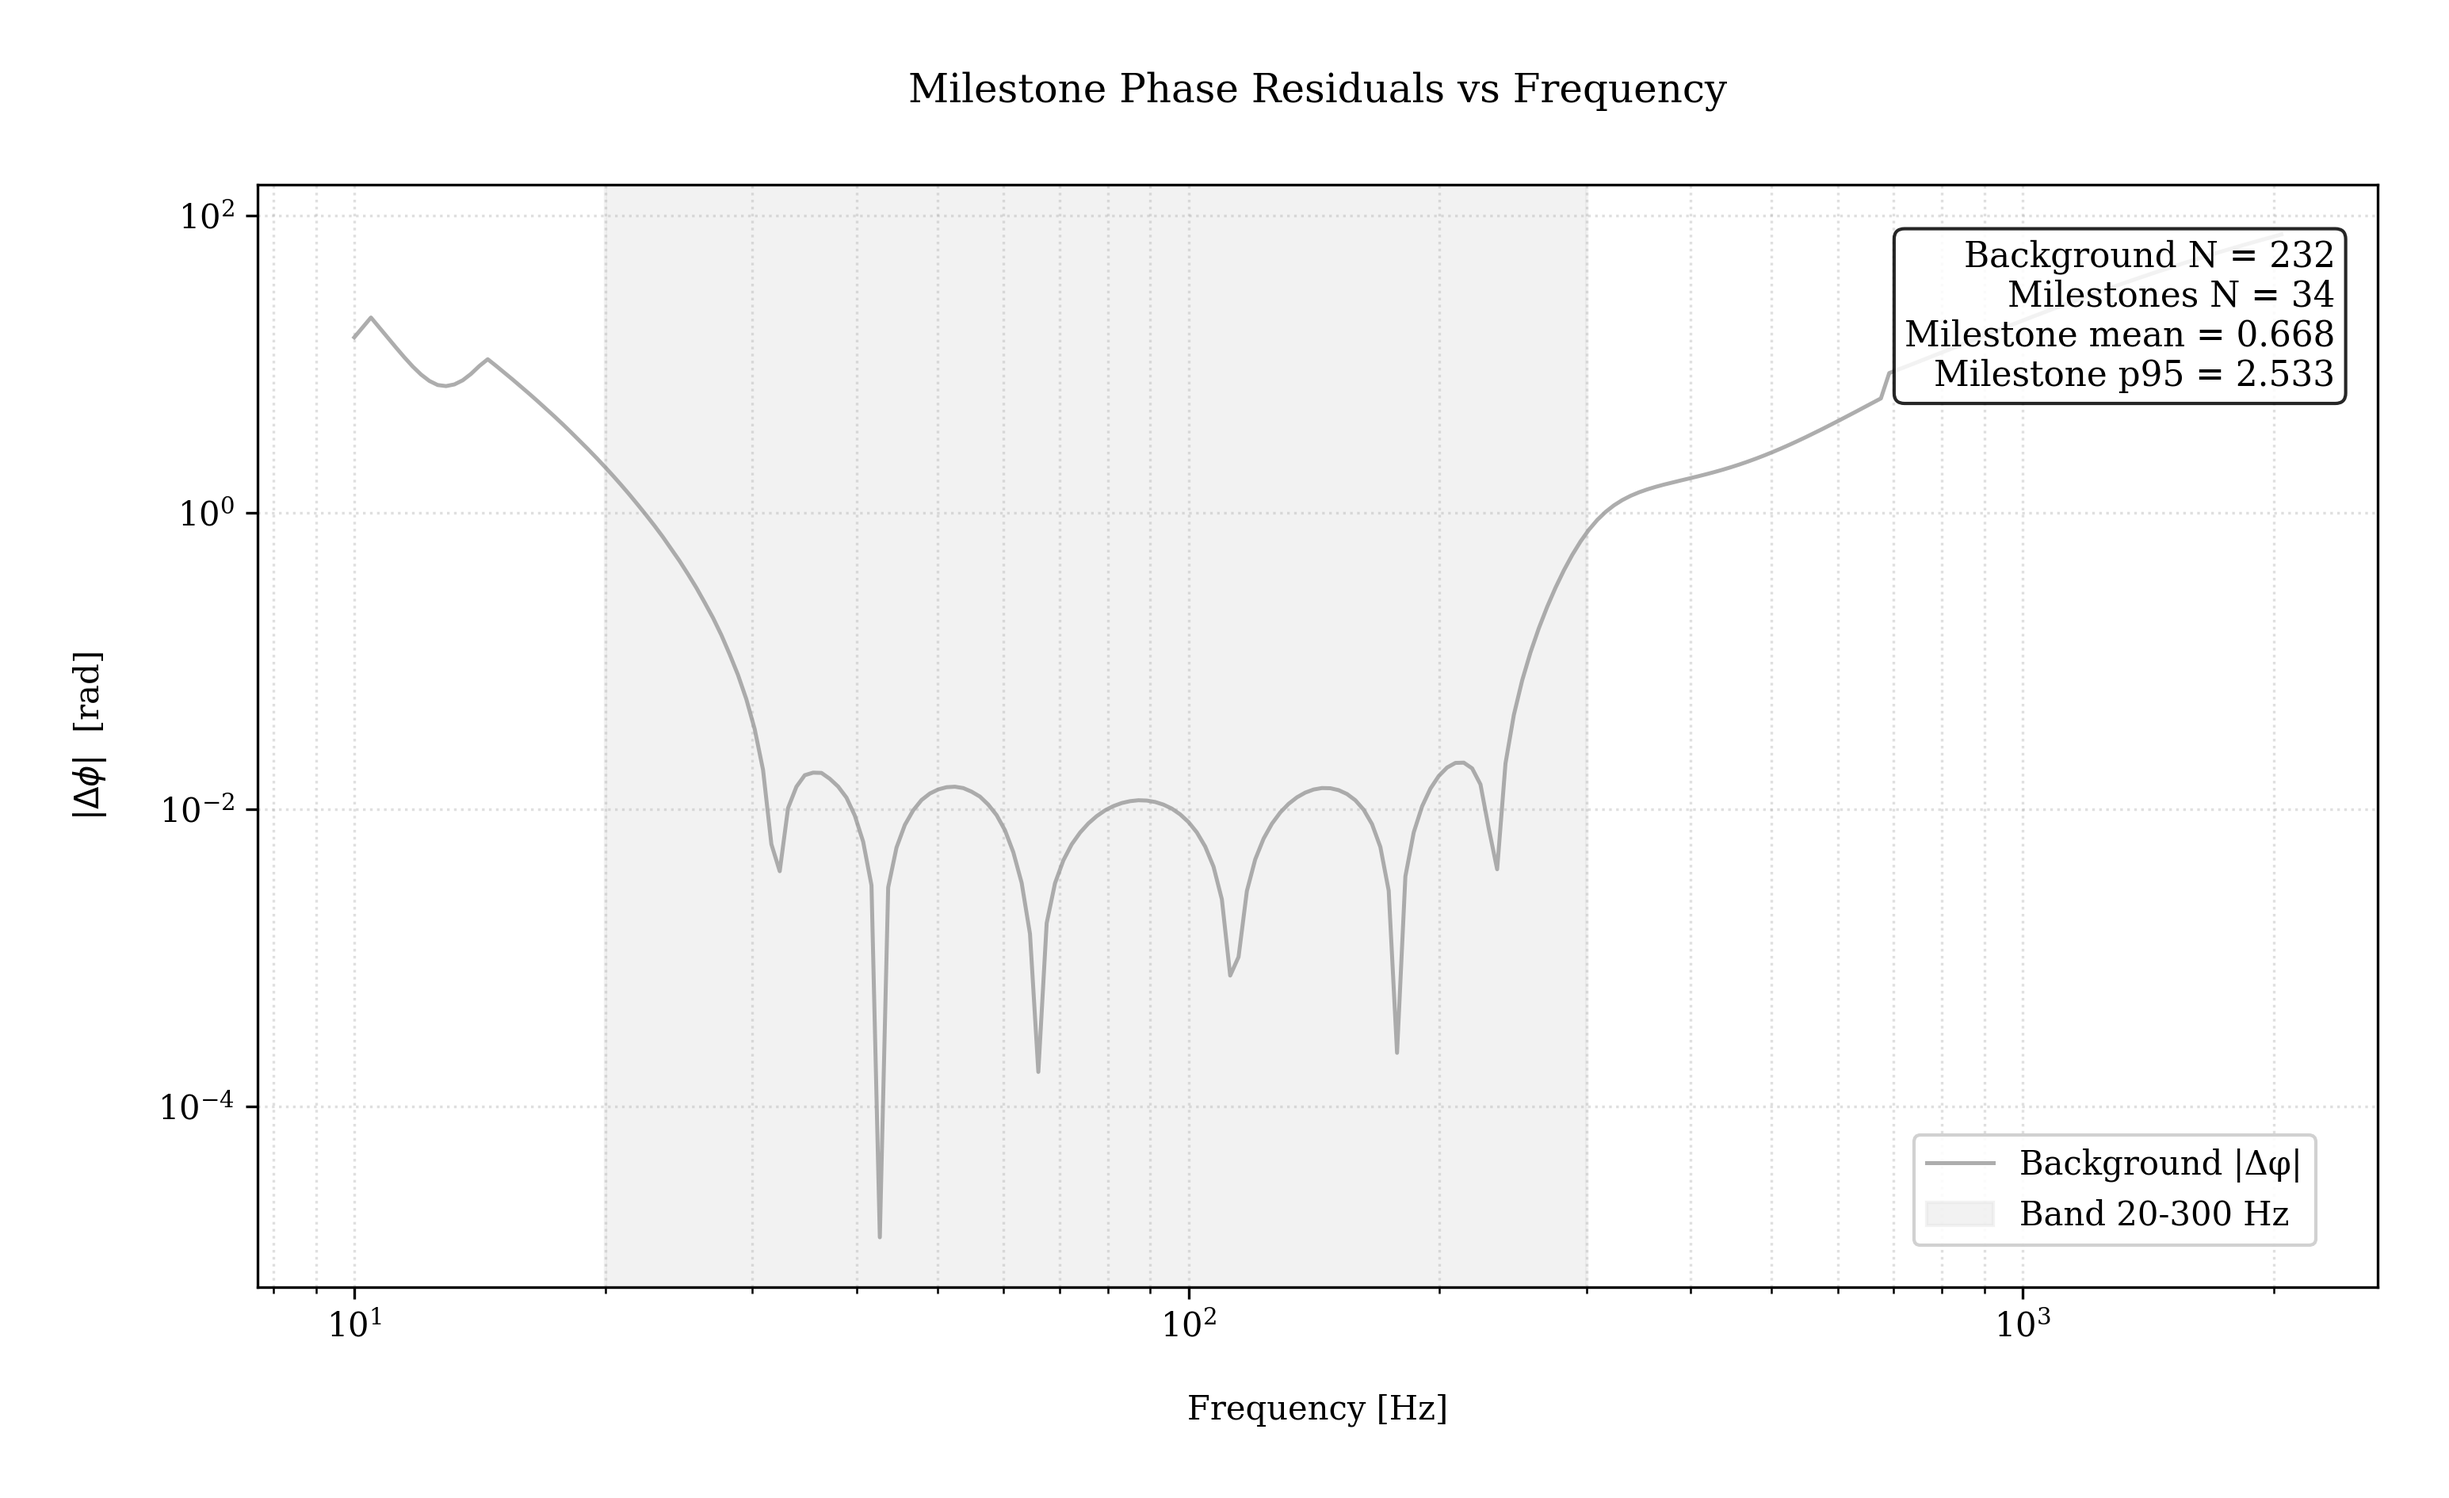
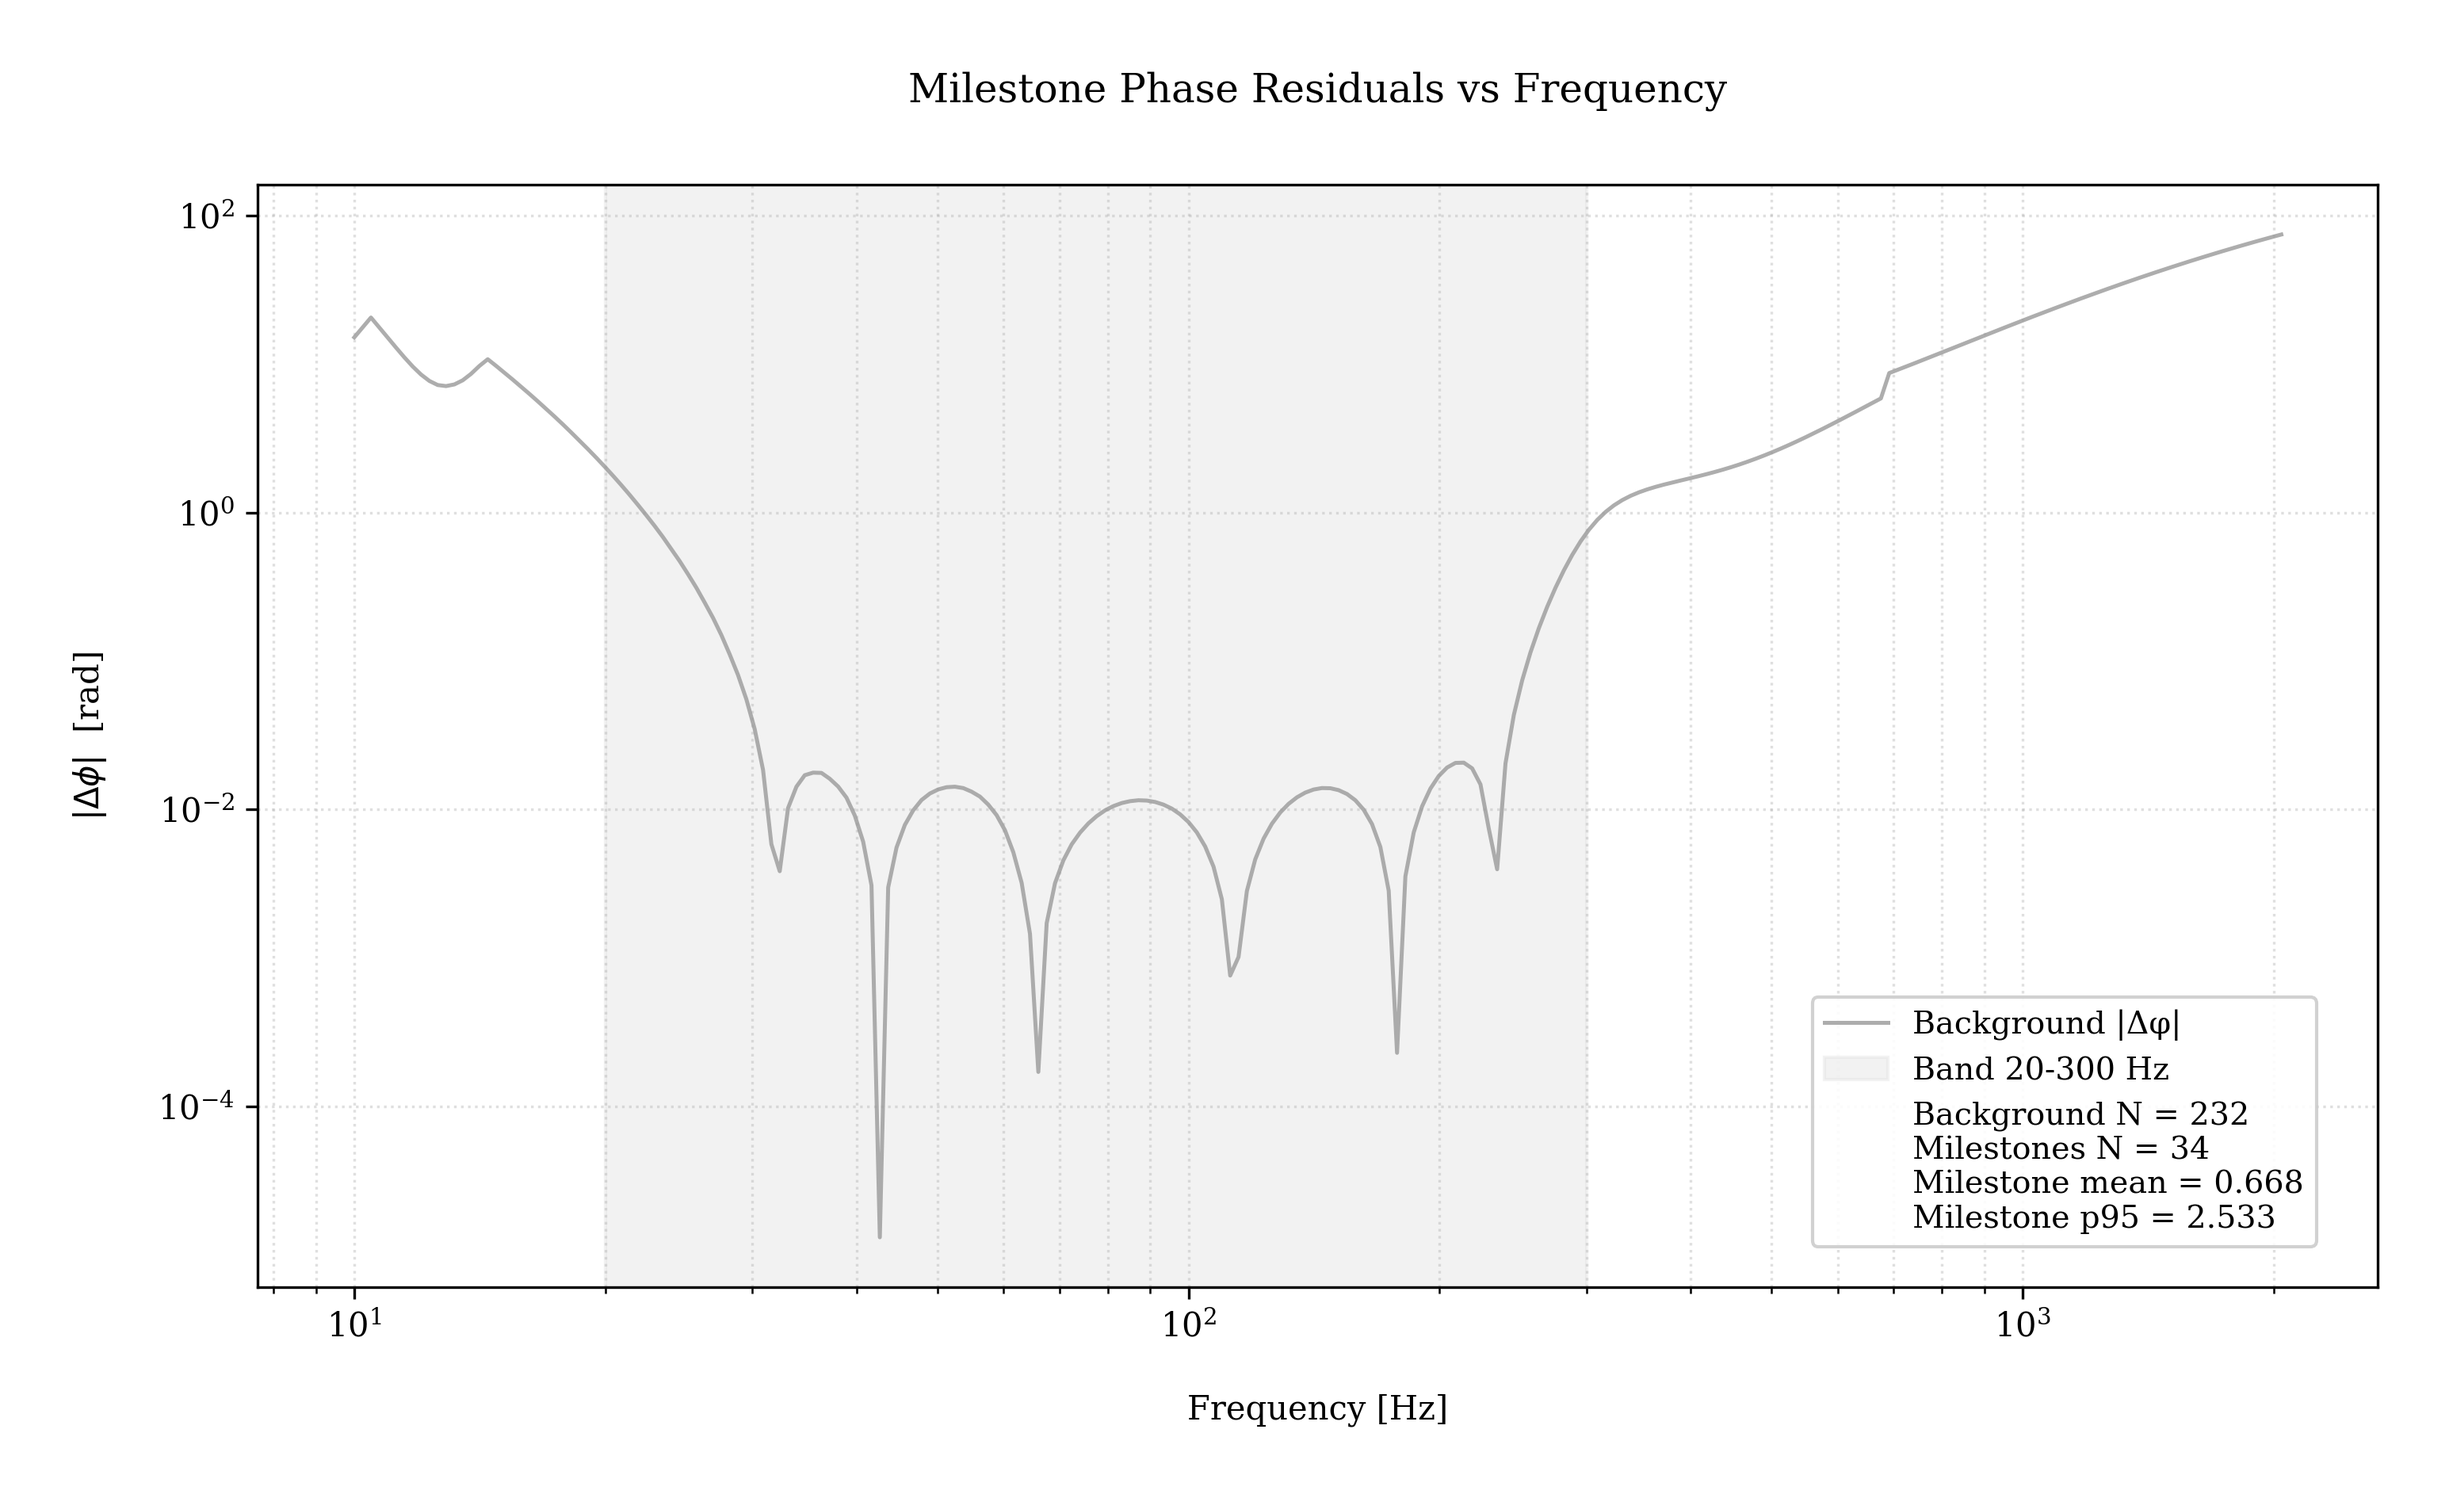
viz(ch09): consolidate all legends to lower right for fig 04 to clear curve peaks

Changed region(s): [[0.7456, 0.6556, 0.932, 0.8429], [0.7767, 0.1561, 0.9631, 0.281]]

diff --git a/zz-scripts/chapter09/09_fig_04_absdphi_milestones_vs_f.py b/zz-scripts/chapter09/09_fig_04_absdphi_milestones_vs_f.py
@@ -173,18 +173,10 @@ def main() -> None:
         f"Milestone mean = {float(np.nanmean(resid)):.3f}\n"
         f"Milestone p95 = {float(np.nanpercentile(resid,95.0)):.3f}"
     )
-    ax.text(
-        0.98,
-        0.95,
-        stats_txt,
-        transform=ax.transAxes,
-        ha="right",
-        va="top",
-        fontsize=10.5,
-        bbox=dict(boxstyle="round,pad=0.3", facecolor="white", alpha=0.85),
-    )
 
     handles, labels = ax.get_legend_handles_labels()
+    handles.append(plt.Line2D([], [], color="none"))
+    labels.append(stats_txt)
     # Compact single legend stacked in lower-right (keeps upper-left clear)
     ax.legend(
         handles,
@@ -192,7 +184,7 @@ def main() -> None:
         loc="lower right",
         bbox_to_anchor=(0.98, 0.02),
         framealpha=0.9,
-        fontsize=10,
+        fontsize=9.5,
         borderaxespad=0.6,
     )
     fig.savefig(args.out, dpi=args.dpi)
